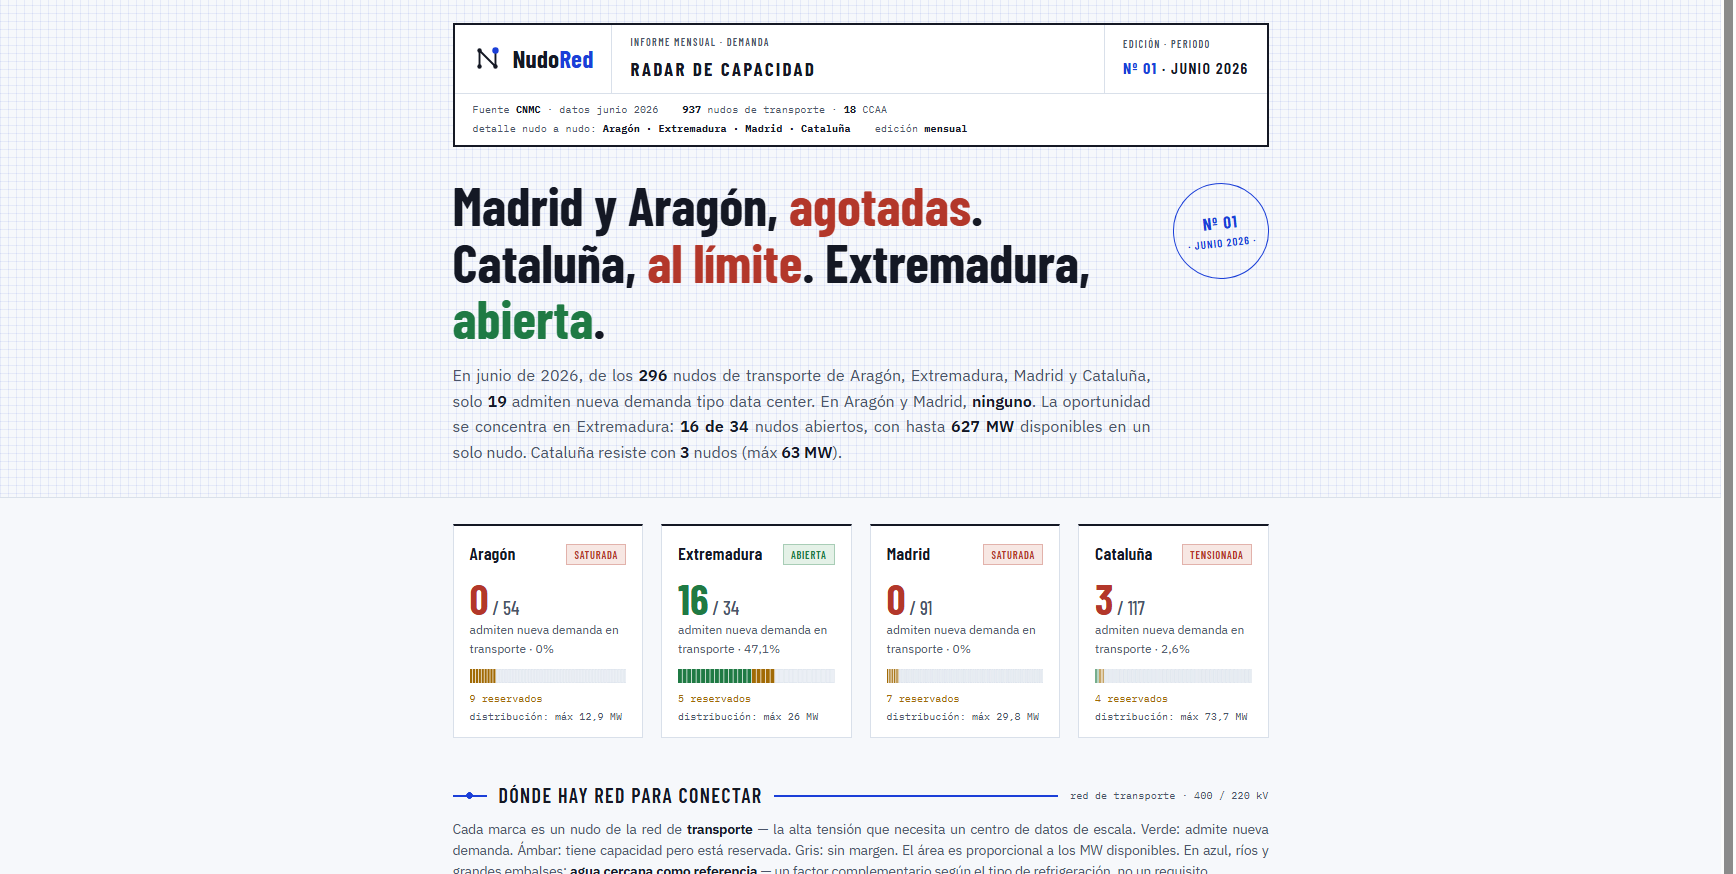
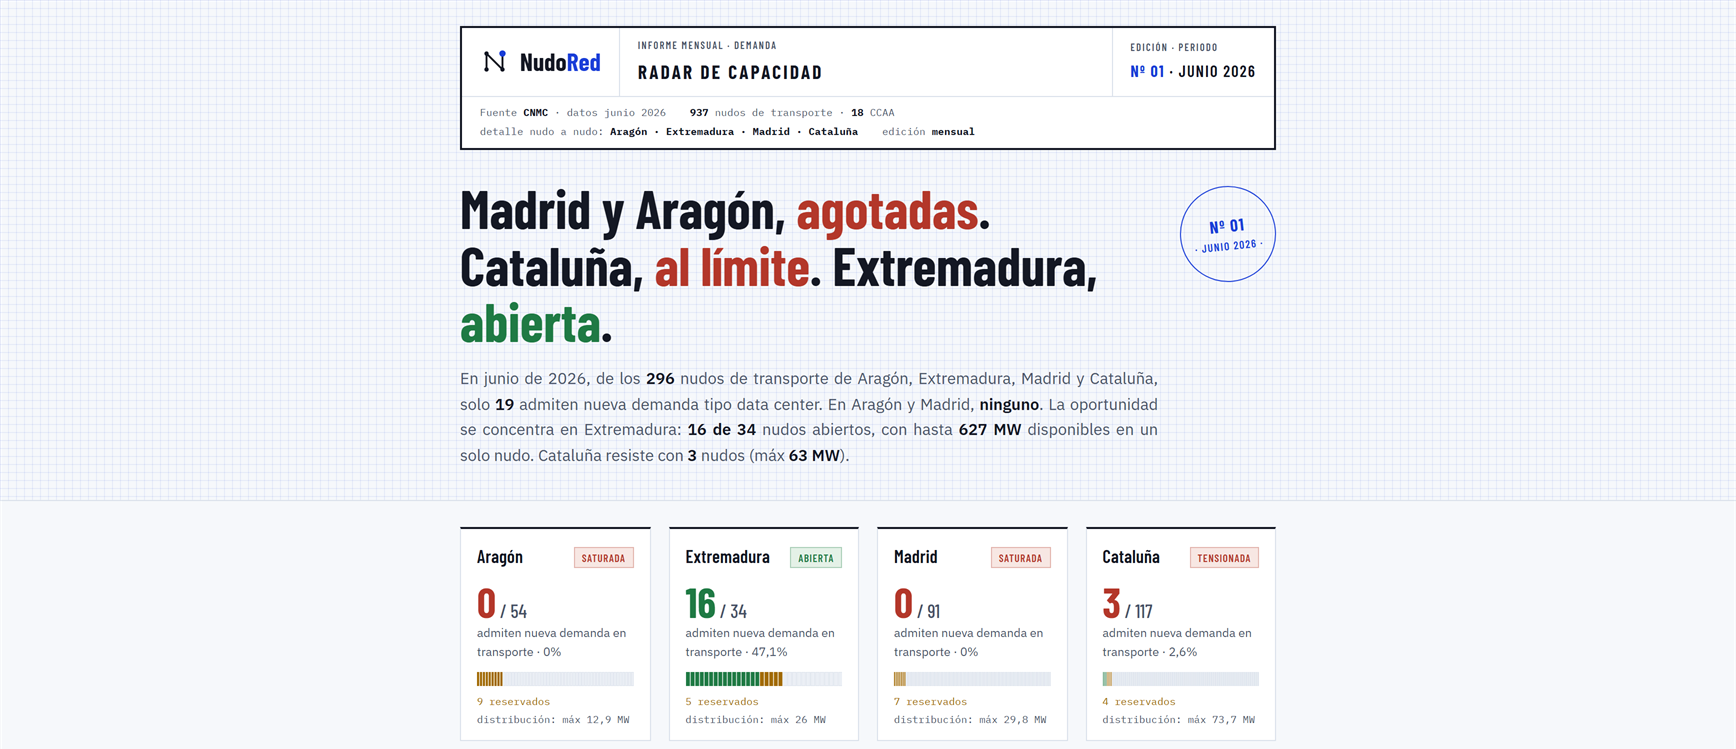
Landing: el extracto del Radar salia con una seccion repetida
Al abrir "Ver un ejemplo" el extracto se veia pisado: la seccion "Donde
hay red para conectar" y su parrafo aparecian dos veces, cortados por la
mitad.

Causa: los dos recortes del teaser se solapaban 76px. Al regenerarlos
para el redisenio reutilice las coordenadas de la version anterior
(0-926 y 850-1991), que ya no corresponden al alto del nuevo diseno.

- Recortes recalculados desde los limites reales del DOM y ahora
  CONTIGUOS: portada 0-749 (cajetin, titular y fichas) y mapas 749-1555
  (la seccion entera). Quedan documentados junto a las imagenes para que
  no se vuelvan a ajustar a ojo.
- El dialogo pasa a ser una columna flexible. Antes el cuerpo restaba a
  mano la altura de cabecera y pie (`max-height:calc(90vh - 136px)`), y
  en cuanto una crecia -el boton de cierre paso a 44px por el repaso
  movil- la suma se salia de 90vh y el pie se quedaba fuera.
- El aviso de "pulsa una imagen" sale del cuerpo desplazable y se queda
  fijo bajo la cabecera.

Verificado con el dialogo abierto a 1280 y 390 px.

Changed region(s): [[0.2488, 0.0, 0.7465, 1.0], [0.9643, 0.0, 1.0, 1.0], [0.6843, 0.2457, 0.7465, 0.3378]]

diff --git a/index.html b/index.html
@@ -269,8 +269,14 @@
   .signup.closing{margin:30px 0 4px;}
 
   /* ============ «ver un ejemplo» + lightbox ============ */
+  /* Columna flexible en vez de restar alturas a mano: antes el cuerpo llevaba un
+     `max-height:calc(90vh - 136px)` con la altura de cabecera y pie metida a ojo, y en
+     cuanto una de las dos crecia (p. ej. el boton de cierre a 44px) la suma pasaba de 90vh
+     y el pie se quedaba fuera. Asi cabecera y pie ocupan lo suyo y el cuerpo el resto. */
   dialog.example{border:1px solid var(--ink);padding:0;max-width:900px;width:calc(100% - 32px);max-height:90vh;
     color:var(--ink);background:var(--panel);overflow:hidden;}
+  dialog.example[open]{display:flex;flex-direction:column;}
+  .ex-head,.ex-hint,.ex-foot{flex:none;}
   dialog.example::backdrop{background:rgba(20,24,36,.55);}
   .ex-head{display:flex;justify-content:space-between;align-items:center;gap:16px;padding:13px 16px;border-bottom:1px solid var(--hair);}
   .ex-head h3{margin:0;font-size:15px;font-weight:600;letter-spacing:-.005em;}
@@ -278,7 +284,7 @@
   .ex-close{font-family:var(--sans);font-size:15px;color:var(--ink-soft);background:none;border:1px solid var(--hair);
     width:44px;height:44px;cursor:pointer;line-height:1;flex:none;}
   .ex-close:hover{background:var(--track);color:var(--ink);}
-  .ex-body{overflow:auto;max-height:calc(90vh - 136px);background:var(--track);}
+  .ex-body{flex:1 1 auto;min-height:0;overflow:auto;background:var(--track);}
   .ex-hint{margin:0;padding:8px 16px;font-family:var(--mono);font-size:10.5px;letter-spacing:.05em;
     text-transform:uppercase;color:var(--ink-soft);background:var(--panel);
     border-bottom:1px solid var(--hair);}
@@ -323,7 +329,6 @@
 
     /* Diálogo del ejemplo a pantalla casi completa: cada píxel cuenta para leer un informe. */
     dialog.example{width:calc(100% - 16px);max-height:94vh;}
-    .ex-body{max-height:calc(94vh - 190px);}
     .ex-foot{gap:10px;}
     .ex-foot a{flex:1 1 auto;text-align:center;padding:13px 18px;}
   }
@@ -646,16 +651,22 @@
         </div>
         <button type="button" class="ex-close js-ex-close" aria-label="Cerrar">✕</button>
       </div>
+      <!-- El aviso va FUERA del cuerpo para que no se vaya con el desplazamiento. Enlace a la
+           imagen suelta: en un movil el extracto encogido a 350px es ilegible, y abrirlo
+           aparte da el visor nativo con zoom y desplazamiento. -->
+      <p class="ex-hint">Pulsa una imagen para verla a tamaño completo</p>
       <div class="ex-body">
-        <!-- Enlace a la imagen suelta: en un movil el extracto encogido a 350px es ilegible,
-             y abrirlo aparte da el visor nativo con zoom y desplazamiento. -->
-        <p class="ex-hint">Pulsa una imagen para verla a tamaño completo</p>
+        <!-- Los dos recortes son CONTIGUOS, no solapados: portada = 0-749px del informe
+             (cajetin + titular + fichas) y mapas = 749-1555px (la seccion entera). Se
+             calculan con los limites reales del DOM; a ojo se pisaban y el extracto salia
+             con la misma seccion repetida y cortada. Si cambia el alto de la portada, hay
+             que volver a medir, no ajustar el numero a mano. -->
         <a class="ex-shot" href="teaser-portada.png" target="_blank" rel="noopener">
-          <img src="teaser-portada.png" width="1736" height="874" loading="lazy"
+          <img src="teaser-portada.png" width="1736" height="749" loading="lazy"
                alt="Portada del Radar de junio: «Madrid y Aragón, agotadas. Cataluña, al límite. Extremadura, abierta», con fichas de capacidad por comunidad">
         </a>
         <a class="ex-shot" href="teaser-mapas.png" target="_blank" rel="noopener">
-          <img src="teaser-mapas.png" width="1736" height="1141" loading="lazy"
+          <img src="teaser-mapas.png" width="1736" height="806" loading="lazy"
                alt="Mapas del Radar: nudos de la red de transporte de Aragón, Extremadura, Madrid y Cataluña, coloreados por capacidad y dimensionados por MW disponibles">
         </a>
       </div>
